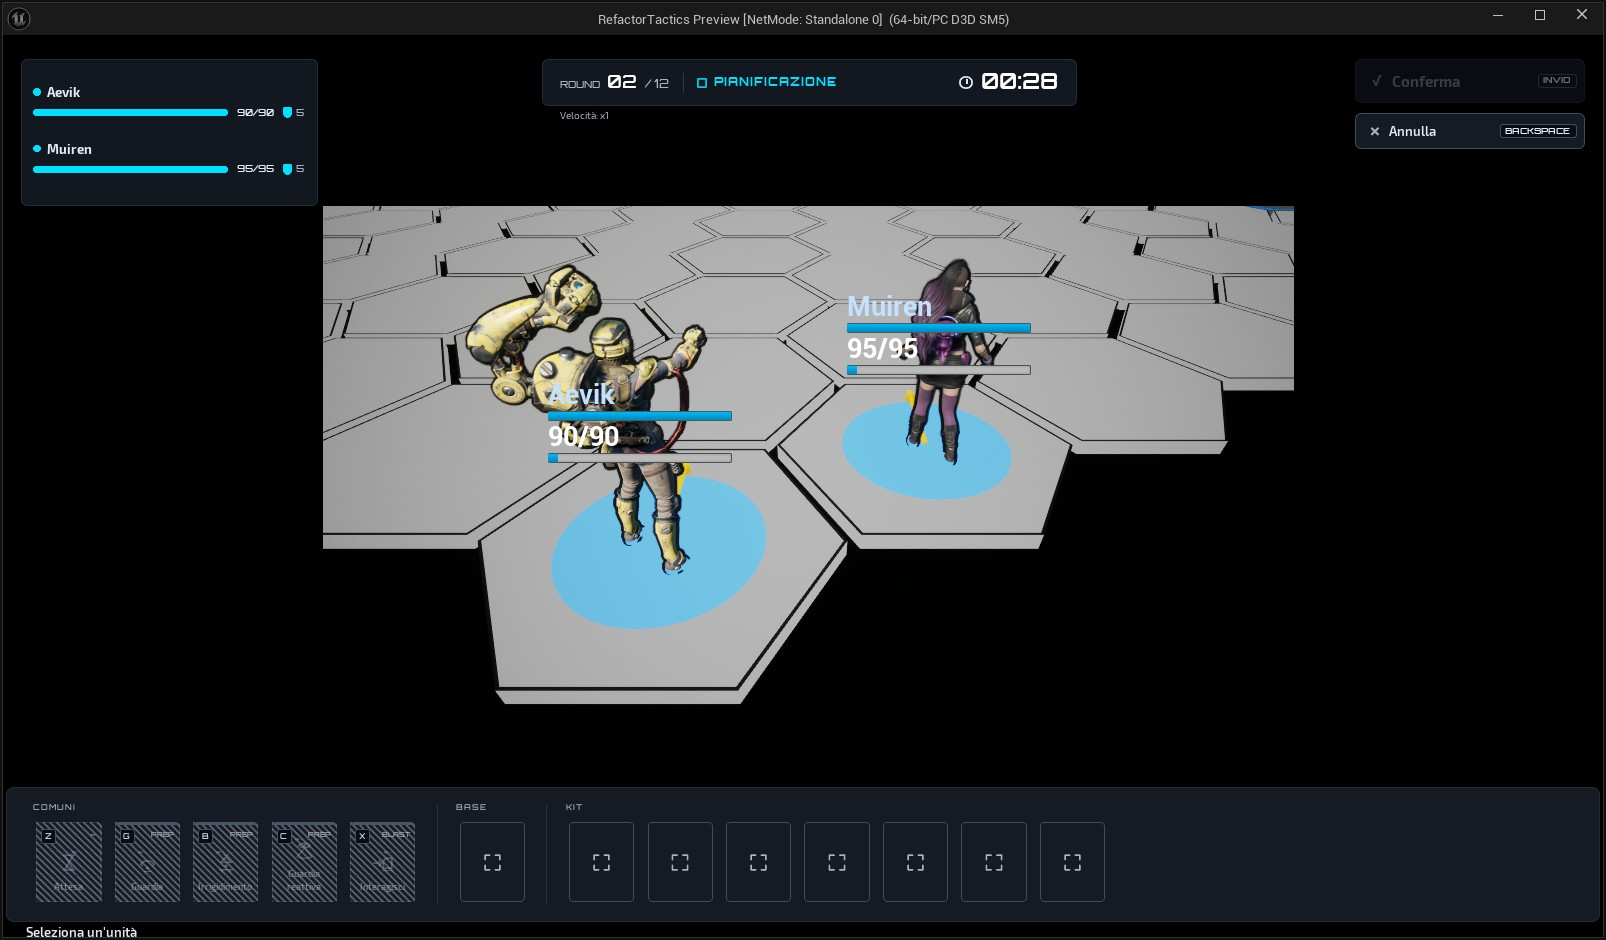
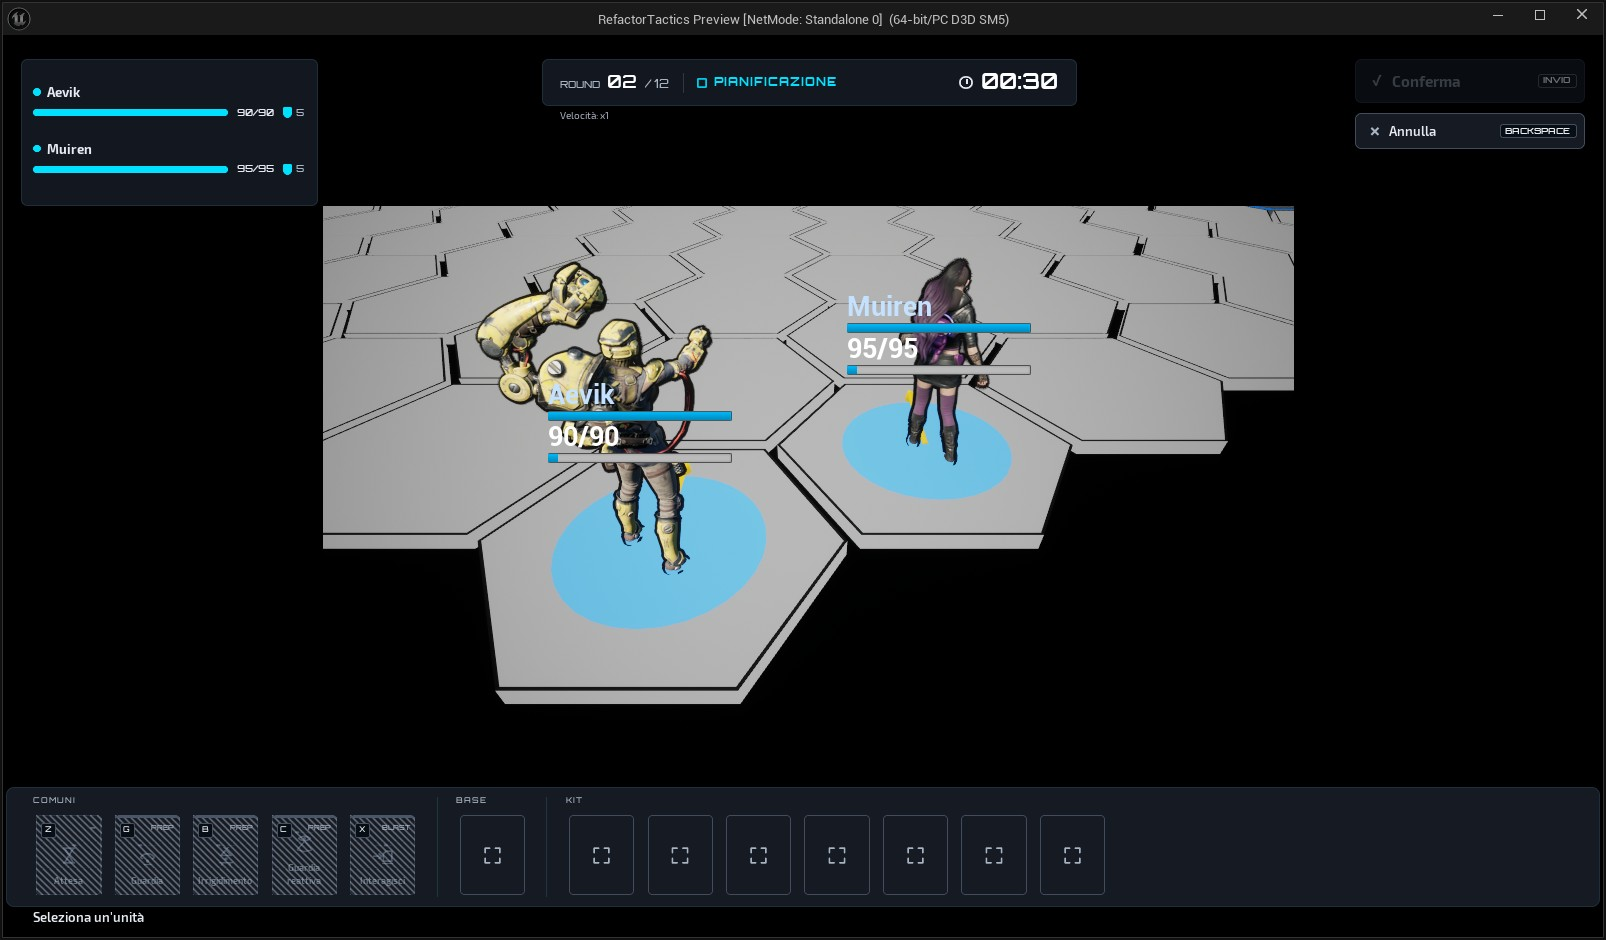
docs(evidence): catture del layout finale a 1600x900 e 1920x1080, e la misura che ha corretto il primo ritocco (#3869)

diff --git a/docs/technical/evidence/3869/prompt-del-dock-misure-2026-10-27.md b/docs/technical/evidence/3869/prompt-del-dock-misure-2026-10-27.md
@@ -1,29 +1,34 @@
-# #3869 - il prompt del dock: misura e catture (2026-10-27)
+# #3869 - il prompt del dock: misure e catture (2026-10-27)
 
 Evidenza **dell'assistente**, non un giudizio dell'autore. Riguarda [#3869](https://github.com/DegrassiAaron/refactor-tactics-main/issues/3869).
 
 ## Che cosa e' stato catturato, e come
 
-- **PIE nell'Editor** (`NetMode: Standalone`), finestra flottante **1600x900**, partita avviata, nessuna selezione: il prompt mostrato e' quello di `IdleSelection`.
-- Cattura con `PrintWindow` della finestra per titolo, dal clone principale, **senza inviare input** alla PIE. Il client e' 1606x940: il viewport e' 1600x900, il resto e' la barra del titolo.
+- **PIE nell'Editor** (`NetMode: Standalone`), finestra flottante, partita avviata, nessuna selezione: il prompt mostrato e' quello di `IdleSelection`.
+- Cattura con `PrintWindow` della finestra per titolo, dal clone principale, **senza inviare input** alla PIE. Il client include la barra del titolo (40 px).
 - **Non e' il pacchetto cotto** dove l'issue ha visto il difetto: la resa del pacchetto non e' stata misurata.
 
 ## Le catture
 
-- `pie-1600x900-prima-2026-10-27.jpg`: il prompt in Roboto Bold 24 bianco e' **tagliato dal bordo inferiore**, se ne vede la parte alta.
-- `pie-1600x900-dopo-2026-10-27.jpg`: Exo 2 SemiBold 12, tinta del testo corrente dell'HUD, **intero** («Seleziona un'unità», con l'accento che il font disegna).
+- `pie-1600x900-prima-2026-10-27.jpg`: `main`, finestra 1600x900. Il prompt in Roboto Bold 24 bianco e' **tagliato dal bordo inferiore**, se ne vede la parte alta.
+- `pie-1600x900-dopo-2026-10-27.jpg` e `pie-1920x1080-dopo-2026-10-27.jpg`: layout finale. Il prompt, in Exo 2 SemiBold 12 con la tinta del testo corrente dell'HUD, e' **intero**, a circa 20 px dal bordo, allineato all'etichetta COMUNI, con «unità» accentato.
+- **Non c'e' un "prima" a 1920x1080**: la misura qui sotto dice che a quella scala il difetto e' piu' grande, non l'ho catturato.
 
-## La misura che spiega il taglio
+## La misura che spiega il taglio, e che ha corretto il mio primo ritocco
 
-Il dock sta in `Zone_Bottom`, alta `Bands().Bottom - 2 * ZoneMargin` unita' Slate (`RTHudLayout::ZoneLayout`). A scala UI 0,833 (900 / 1080):
+Il dock sta in `Zone_Bottom`, alta `Bands().Bottom - 2 * ZoneMargin` = 175,6 unita' Slate (`RTHudLayout::ZoneLayout`). Il test `RefactorTactics.ScreenHud.ActionDockWithItsPromptFitsTheBottomZone` costruisce il dock vero con gli slot, scrive il testo del prompt e misura con Slate **a scala 1,0**:
 
-- la barra delle azioni e' alta 130 px, cioe' 156 unita' Slate;
-- restano circa 17 px, cioe' circa 20 unita', sotto la barra;
-- il prompt a 24 ne voleva circa 28; a 12, circa 14.
+| blob del dock | barra | prompt | dock | zona |
+|---|---|---|---|---|
+| `main` (Roboto Bold 24) | 163 | 39 | 202 | 175,6 |
+| primo ritocco (Exo 2 12, padding barra 20+22) | 163 | 20 | 185 | 175,6 |
+| finale (Exo 2 12, padding barra 12+12) | 145 | 20 | 167 | 175,6 |
 
-Il bilancio e' in unita' Slate e non dipende dalla risoluzione: a 1920x1080 il taglio e' lo stesso.
+- **Il primo ritocco non bastava a 1920x1080**, e la PIE a 1600x900 lo nascondeva: a scala 0,833 il carattere si arrotonda e il dock torna nella zona (barra 130 px, cioe' 156 unita'). **Il bilancio in unita' Slate NON e' indipendente dalla risoluzione**: la mia prima frase, "a 1920x1080 il taglio e' lo stesso", era un'inferenza dalla sola misura a 1600x900, ed era sbagliata.
+- Il margine finale e' di circa 8 unita' a scala 1,0, e e' maggiore a scale minori.
 
 ## Limiti
 
-- Un solo prompt catturato. Gli altri hanno lo stesso widget e lo stesso stile.
-- Il margine dopo la correzione e' di circa mezza riga: se la barra delle azioni cresce, il prompt torna a sforare e nessun test lo dice.
+- Un solo prompt catturato. Gli altri hanno lo stesso widget e lo stesso stile, e il test di bilancio li misura tutti.
+- La misura headless non e' la resa: il carattere reale e l'arrotondamento a ogni scala sono della PIE e del pacchetto.
+- Il padding verticale della barra (20+22 → 12+12) e' una scelta di layout dell'assistente: era l'unica altezza libera. Alternative non prese: alzare la fascia (`Bands().Bottom`, decisione del layout) o far stare il prompt dentro il pannello.
